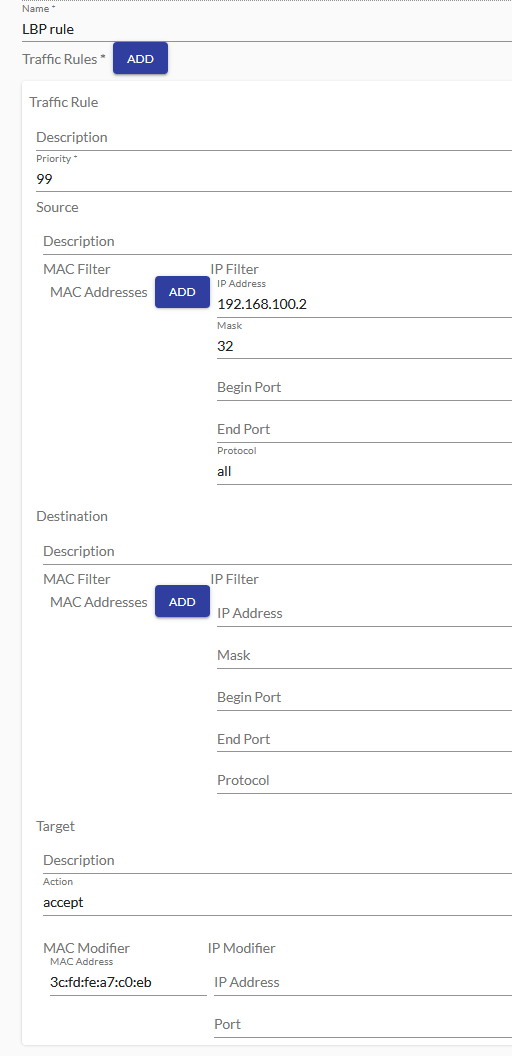
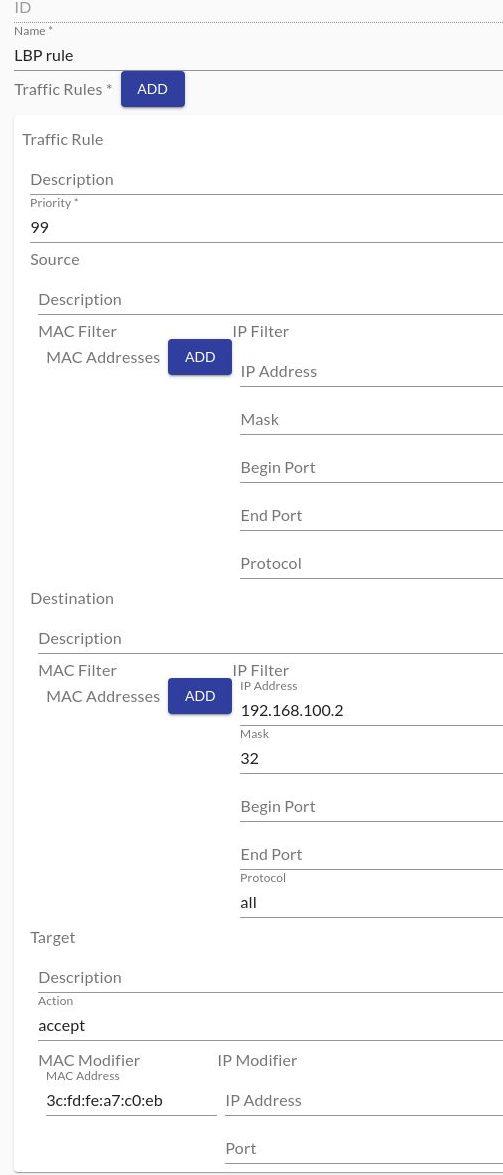
OP-3324 Fix LBP Rule screenshot (#282)

diff --git a/doc/getting-started/on-premises/controller-edge-node-setup.md b/doc/getting-started/on-premises/controller-edge-node-setup.md
@@ -298,10 +298,11 @@ Add traffic policy with rule for LBP:
 
 - Name: LBP rule
 - Priority: 99
-- IP filter:
-  - IP address: 192.168.100.2
-  - Mask: 32
-  - Protocol: all
+- Destination:
+  - IP filter:
+    - IP address: 192.168.100.2
+    - Mask: 32
+    - Protocol: all
 - Target:
   - Action: accept
 - MAC Modifier
